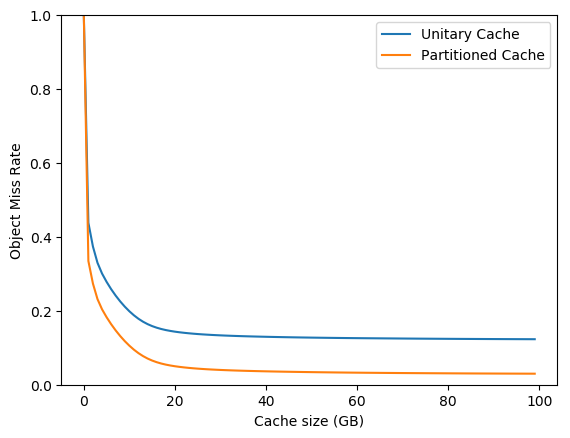
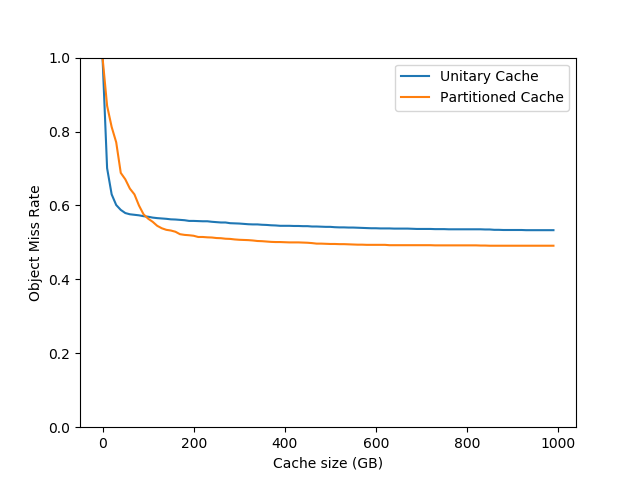
update plotting

diff --git a/src/plotting.py b/src/plotting.py
@@ -5,6 +5,7 @@ import matplotlib.pyplot as plt
 import pandas as pd
 import numpy as np
 import copy
+from collections import Counter, defaultdict
 
 DC = [
     "dc_189",
@@ -27,17 +28,29 @@ p_ratio = np.array([
     0.00005,
     ])
 
-input_dir = "/research/yazhuo/CS570/Output/K8/dc_1448/"
+p_ratio = np.array([
+    0.125,
+    0.125,
+    0.125,
+    0.125,
+    0.125,
+    0.125,
+    0.125,
+    0.125,
+    ])
 
+input_dir = "/research/yazhuo/CS570/Output/K8/dc_1448/variable/"
 
 
 ###############################################################################
 #   Plotting
 ###############################################################################
 
-def plot_cdn_mrcs(s_mrc, p_mrc):
+def plot_cdn_mrcs(single_mrc, partition_mrc, max_cache, step):
     
-    x_axis = np.arange(100)
+    x_axis = list(np.arange(0, 1000, 10))
+    s_mrc = single_mrc[0:1000:10] 
+    p_mrc = partition_mrc[0:1000:10] 
 
     plt.figure('mrc plot')
 
@@ -46,9 +59,10 @@ def plot_cdn_mrcs(s_mrc, p_mrc):
 
     plt.xlabel('Cache size (GB)')
     plt.ylabel('Object Miss Rate')
+    #plt.xscale('log', basex=2)
     plt.ylim(0,1)
     plt.legend()
-    plt.savefig("s_p_mrc.png", bbox_inches='tight')
+    plt.savefig("s_p_mrc.png")
 
 
 def plot_customer_mrcs(s_mrc, p_mrc):
@@ -60,12 +74,13 @@ def plot_customer_mrcs(s_mrc, p_mrc):
 #   MRC
 ###############################################################################
 
-def cal_hit_rate(file_loc):
+def cal_unit_hit_rate(file_loc):
     
     df = pd.read_csv(file_loc, sep = '\t', usecols=[1], header=None)
     rds = df[1].values
 
-    total_req = 65950901
+    total_req = len(rds)
+    
     
     bins = np.arange(-1, max(rds)+2)
     hit_count, bin_edges = np.histogram(rds, bins=bins, density=False)
@@ -76,10 +91,10 @@ def cal_hit_rate(file_loc):
     return hrc, max_cache, total_req
 
 
-def cache_mrc():
+def cache_unit_mrc():
     
     file_loc = input_dir + 'rd_single'
-    single_hc, max_cache, total_req = cal_hit_rate(file_loc)
+    single_hc, max_cache, total_req = cal_unit_hit_rate(file_loc)
     cache_partition = p_ratio * max_cache
 
     cluster_hc = [[] for i in range(8)]
@@ -87,7 +102,7 @@ def cache_mrc():
     for i in range(8):
         print(i)
         file_loc = input_dir + 'rd_cluster_' + str(i)
-        hc_np, c, part_num_req = cal_hit_rate(file_loc)
+        hc_np, c, part_num_req = cal_unit_hit_rate(file_loc)
 
         hc = list(hc_np)
         cluster_hc[i].extend(hc)
@@ -110,23 +125,96 @@ def cache_mrc():
     return single_mrc, partition_mrc
 
 
-def cus_behavior(c):
+def cus_behavior(customer_id, cluster_id, max_cache, step):
 
-    single_rds, partition_rds = read_customer_rds(c)
+    single_rds, partition_rds = read_customer_rds(customer_id, cluster_id)
+    total_req = len(single_rds)
 
-    bins = np.arange(-1, max(single_rds)+2)
-    single_hit_rate, bin_edges = np.histogram(single_rds, bins=bins, density=True)
-    partition_hit_rate, bin_edges = np.histogram(partition_rds, bins=bins, density=True)
+    max_partition = p_ratio[0] * max_cache
+    step_partition = p_ratio[0] * step
 
-    single_hrc = np.cumsum(single_hit_rate[1:])
-    partition_hrc = np.cumsum(partition_hit_rate[1:])
+    single_bins = np.arange(0, max_cache, step)
+    part_bins = np.arange(0, max_partition, step_partition)
+    single_hit_rate, bin_edges = np.histogram(single_rds, bins=single_bins, density=False)
+    partition_hit_rate, bin_edges = np.histogram(partition_rds, bins=part_bins, density=False)
 
-    single_mrc = 1 - single_hrc
-    partition_mrc = 1 - partition_hrc
+    print(single_hit_rate)
+    print(bin_edges)
+
+    single_hrc = np.cumsum(single_hit_rate)
+    partition_hrc = np.cumsum(partition_hit_rate)
+
+    single_mrc = 1 - single_hrc/total_req
+    partition_mrc = 1 - partition_hrc/total_req
 
     return single_mrc, partition_mrc
 
 
+
+def cal_variable_hit_rate(file_loc, max_cache, step):
+    
+    df = pd.read_csv(file_loc, sep = '\t', usecols=[1], header=None)
+    rds = df[1].values  
+
+    total_req = len(rds)
+    total_size = sum(list(rds))
+
+    bins = np.arange(0, max_cache, step)
+    hit_count, bin_edges = np.histogram(rds, bins=bins, density=False)
+    hit_byte_count = hit_count * bins[1:]
+
+    hc = np.cumsum(hit_count)
+    hbc = np.cumsum(hit_byte_count)
+    
+    return hc, hbc, total_req, total_size
+
+
+def cache_variable_mrc(max_cache, step):
+    file_loc = input_dir + 'rd_single'
+    single_hc, single_byte_hc, total_req, total_size = cal_variable_hit_rate(file_loc, max_cache, step)
+    max_partition = p_ratio * max_cache
+
+    cluster_hc = [[] for i in range(8)]
+    cluster_byte_hc = [[] for i in range(8)]
+
+    for i in range(8):
+        print(i)
+        file_loc = input_dir + 'rd_cluster_' + str(i)
+        partition_hc, partition_byte_hc, partition_req, partition_size = cal_variable_hit_rate(file_loc, max_partition[i], step)
+        hc = list(partition_hc)
+        byte_hc = list(partition_byte_hc)
+        cluster_hc[i].extend(hc)
+        cluster_byte_hc[i].extend(byte_hc)
+
+        last_c = cluster_hc[i][-1]
+        last_part = [last_c for j in range(len(hc), max_cache, step)]
+        cluster_hc[i].extend(last_part)
+
+        # byte_last_c = cluster_byte_hc[i][-1]
+        # byte_last_part = [last_c for j in range(len(byte_hc), max_cache, step)]
+        # cluster_byte_hc[i].extend(byte_last_part)
+    
+    cluster_hc = np.array(cluster_hc, dtype="object")
+    part_hc = np.sum(cluster_hc, axis=0)
+
+    # cluster_byte_hc = np.array(cluster_byte_hc, dtype="object")
+    # part_byte_hc = np.sum(cluster_byte_hc, axis=0)
+
+
+    single_mrc = list((total_req - np.array(single_hc)) / total_req)
+    partition_mrc = list((total_req - np.array(part_hc)) / total_req)
+
+    # single_bmrc = list((total_size - np.array(single_byte_hc)) / total_size)
+    # partition_bmrc = list((total_size - np.array(part_byte_hc)) / total_size)
+
+
+    print(single_mrc[0:1000:10])
+    print(partition_mrc[0:1000:10])
+
+    # print(single_bmrc[0:1000:10])
+    # print(partition_bmrc[0:1000:10])
+    
+    return single_mrc, partition_mrc
 
 ###############################################################################
 #   Auxiliary functions
@@ -146,23 +234,44 @@ def read_rds():
     return rds
 
 
-def read_customer_rds(c):
+def read_customer_rds(customer_id, cluster_id):
 
-    file_loc1 = input_dir + "rd_single"
-    df = pd.read_csv(file_loc1, sep = '\t', usecols=[0,1], header=None)
-    customers = df[0].values
-    rds = df[1].values
+    file_loc1 = input_dir + "rd_cluster_8_" + str(customer_id)
+    df1 = pd.read_csv(file_loc1, sep = '\t', usecols=[0], header=None)
+    single_rds = df1[0].values
 
-    index = [i for i,x in enumerate(customers) if x == c]
-    single_rds = rds[index]
+    # index = [i for i,x in enumerate(customers) if x == c]
+    # single_rds = rds[index]
 
-    file_loc2 = input_dir + "cluster_0_" + str(c)
-    df = pd.read_csv(file_loc2, sep = '\t', usecols=[1], header=None)
-    partition_rds = df[0].values
+    file_loc2 = input_dir + "rd_cluster_" + str(cluster_id) + "_" + str(customer_id)
+    df2 = pd.read_csv(file_loc2, sep = '\t', usecols=[0], header=None)
+    partition_rds = df2[0].values
     
     return single_rds, partition_rds
 
+
 if __name__ == "__main__":
 
-    single_mrc, partition_mrc = cache_mrc()
-    plot_cdn_mrcs(single_mrc, partition_mrc)
+    # single_mrc, partition_mrc = cache_unit_mrc()
+    # plot_cdn_mrcs(single_mrc, partition_mrc)
+
+    max_cache = 1024 * 1024 * 1024 * 1024
+    step = 1024 * 1024
+
+    # print('calculate cdn mrc')
+    # single_mrc, partition_mrc = cache_variable_mrc(max_cache, step)
+
+    # print('plotting object miss rate')
+    # plot_cdn_mrcs(single_mrc, partition_mrc, max_cache, step)
+
+    print('calculate customer mrc')
+    # 1255, 0
+    # 943, 4
+    # 1066, 4
+    # 601, 1
+    customer_id = 241
+    cluster_id = 3
+    single_mrc, partition_mrc = cus_behavior(customer_id, cluster_id, max_cache, step)
+    print(single_mrc)
+    print(partition_mrc)
+    plot_cdn_mrcs(single_mrc, partition_mrc, max_cache, step)

diff --git a/src/temp.py b/src/temp.py
@@ -23,22 +23,16 @@ DC = [
 
 
 input_dir = "/research/yazhuo/CS570/Dataset/K8/dc_1448/"
-output_dir = "/research/yazhuo/CS570/Output/K8/dc_1448/variable/"
+output_dir = "/research/yazhuo/CS570/Output/K8/dc_1448/"
 
 ###############################################################################
 #   Core functions
 ###############################################################################
 
-def sim_lru_cache(a):
+def sim_lru_cache():
 
-    c = int(a)
-    
-    if c < 8:
-        input_file_loc = input_dir +  "cluster_" + str(c)
-        output_file_loc = output_dir + "rd_cluster_" + str(c)
-    else:
-        input_file_loc = input_dir +  "single_cache_trace"
-        output_file_loc = output_dir + "rd_single"
+    input_file_loc = input_dir +  "single_cache_trace"
+    output_file_loc = output_dir + "rd_single"
 
     times, customers, keys, sizes = reader(input_file_loc)
 
@@ -91,34 +85,33 @@ def reader(file_loc):
     return times, customers, keys, sizes
 
 
-def save_rds(output_file_loc, rds, customers, c):
+def save_rds(output_file_loc, rds, customers):
     
-    print("start store rd in cluster " + str(c))
     w = open(output_file_loc, 'w')
 
     for i in range(len(rds)):
         w.write(str(customers[i])+ "\t" +  str(rds[i])+ '\n')
-        out_cus_rd = output_dir + "rd_cluster_" + str(c) + "_" + str(customers[i])
+        out_cus_rd = output_dir + "rd_single_"+ str(customers[i])
         with open(out_cus_rd, 'a+') as fc:
             fc.write(str(rds[i]) + "\n")
 
     w.close()
-    print("finish cluster " + str(c))
+    print("finish")
+
+
+def test():
+
+    a = [10, 20, 10, 10, 30, 40, 50]
+    
+    bins = np.arange(10, 60, 10)
+    x,y = np.histogram(a, bins=bins, density=True)
+    print(x)
+    print(y)
+
 
 
 if __name__ == "__main__":
 
-    # test dc_1448
-    
-    print('Parent process %s.' % os.getpid())
-    num_trace = 9
-    p = Pool(num_trace)
-    for i in range(num_trace):
-        p.apply_async(sim_lru_cache, args=(i,))
-    
-    print('Waiting for all subprocesses done...')
-    p.close()
-    p.join()
-    print('All subprocesses done.')
+    # test 
 
-    os.popen('python3 /research/yazhuo/Tools/send_email.py simulator_dc_1448_variable_size')
+    test()

diff --git a/src/stats.py b/src/stats.py
@@ -1,0 +1,3 @@
+import pandas as pd
+import numpy as np
+
